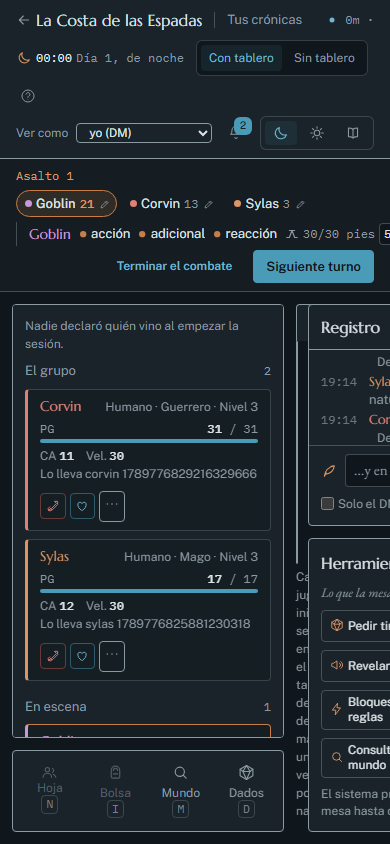
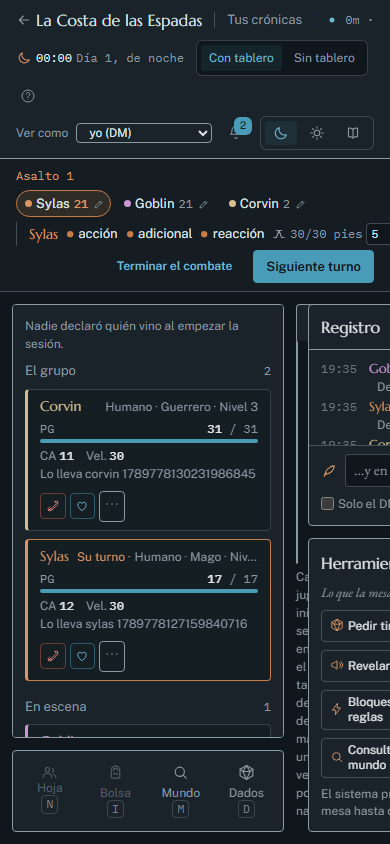
fix(web): mesa e2e after the compact log; h1 back in the band; demo seed force-starts its encounter
- mesa-mide.spec.ts: the last note is located by its full text ("… 30
  del almacén"); the previous regex anchored on the number.
- BandaUnica: the scene title is an <h1> (the table is a page); sesion.spec
  reads the figures from the first <p> again and waits up to 15 s for the
  campaign heading (the page shows "Cargando…" until its GET lands).
- seed-demo.mjs: POST …/encounters/:id/force-start after the initiatives,
  with its catch, so the demo table shows the turn order, not the waiting
  room (desbordes.spec.ts).

Claude-Session: https://claude.ai/code/session_01TNEGvdgxqvUiq3PVYxkMc3

diff --git a/apps/web/e2e/sesion.spec.ts b/apps/web/e2e/sesion.spec.ts
@@ -45,7 +45,11 @@ async function crearCampanaConSesion(page: Page) {
   await page.getByLabel("Nombre").fill("La mesa de prueba");
   await page.getByRole("button", { name: "Crear" }).click();
   await page.getByRole("link", { name: "La mesa de prueba" }).click();
-  await expect(page.getByRole("heading", { name: "La mesa de prueba" })).toBeVisible();
+  // 15 s: la ficha de campaña enseña «Cargando…» como `h1` hasta que llega su `GET`, y con la
+  // suite entera detrás el servidor tardó más de los 5 s por defecto (fix round 2, Task 5b).
+  await expect(page.getByRole("heading", { name: "La mesa de prueba" })).toBeVisible({
+    timeout: 15_000,
+  });
 
   await page.getByRole("tab", { name: "Sesiones" }).click();
   await page.getByRole("button", { name: "Nueva sesión" }).click();
@@ -543,9 +547,9 @@ test("contraste medido en la barra de sesión y en la mesa", async ({ page }) =>
         valor: ratio(sobre(getComputedStyle(tituloBanda).color, fondoBanda), fondoBanda),
         minimo: 4.5,
       });
-      // Task 3 (3A.3): la banda única antepone el título (su propio `<p>`) al de duración y
-      // asistencia, así que el segundo `<p>` —no el primero— es el que lleva las cifras.
-      const cifras = banda.querySelectorAll("p")[1] as HTMLElement;
+      // Fix round 2 de la Task 5b (3A.3): el título de la escena es ahora un `<h1>`, así que el
+      // primer `<p>` de la banda vuelve a ser el de duración y asistencia (las cifras).
+      const cifras = banda.querySelectorAll("p")[0] as HTMLElement;
       salida.push({
         que: "mesa: duración y asistencia (cifras)",
         valor: ratio(sobre(getComputedStyle(cifras).color, fondoBanda), fondoBanda),

diff --git a/apps/web/src/features/sessions/BandaUnica.tsx b/apps/web/src/features/sessions/BandaUnica.tsx
@@ -158,12 +158,14 @@ export function BandaUnica({
           reemplazo de lo que se pierde al truncar — pasar el ratón por encima dice el nombre
           entero sin abrir nada. */}
       <div className="flex min-w-0 flex-1 items-baseline gap-s2">
-        <p
-          className="min-w-0 truncate font-title text-chrome-md text-text"
+        {/* `<h1>` (fix round 2 de la Task 5b): la mesa es una página y este es su título —
+            la escena en curso, o «La mesa, en reposo»—; se ve igual que el `<p>` que era. */}
+        <h1
+          className="min-w-0 truncate font-title text-chrome-md font-normal text-text"
           title={sesion ? sesion.title : "La mesa, en reposo"}
         >
           {sesion ? sesion.title : "La mesa, en reposo"}
-        </p>
+        </h1>
         {lugar && (
           <Link
             to={`/campaigns/${campaignId}/entidades/${lugar.id}`}

diff --git a/apps/web/e2e/mesa-mide.spec.ts b/apps/web/e2e/mesa-mide.spec.ts
@@ -108,7 +108,7 @@ async function campanaConSesionYHiloLargo(page: Page) {
   await expect(
     page
       .getByRole("list", { name: "Sucesos de la sesión" })
-      .getByText(new RegExp(`la línea número ${ANOTACIONES}$`)),
+      .getByText(new RegExp(`la línea número ${ANOTACIONES} del almacén`)),
   ).toBeVisible({ timeout: 15_000 });
 }
 

diff --git a/docs/00-INDEX.md b/docs/00-INDEX.md
@@ -124,7 +124,7 @@ Lo único que sí vive aquí es el bloque de abajo, y no lo escribe una persona:
 > `pnpm verify` falla si no coincide con lo que el script generaría — ver
 > `scripts/update-estado.mjs`.
 >
-> - **Generado sobre el commit** `746e3dc` **(rama `3a3/la-barra-de-acciones`)** — instantánea de la
+> - **Generado sobre el commit** `edc0a93` **(rama `3a3/la-barra-de-acciones`)** — instantánea de la
 >   última vez que alguien ejecutó `pnpm update:estado`, no un valor comprobado:
 >   `pnpm verify` solo vuelve a calcular las pruebas unitarias de abajo, nunca este
 >   commit ni esta rama, así que pueden quedar desactualizados varios commits — no
